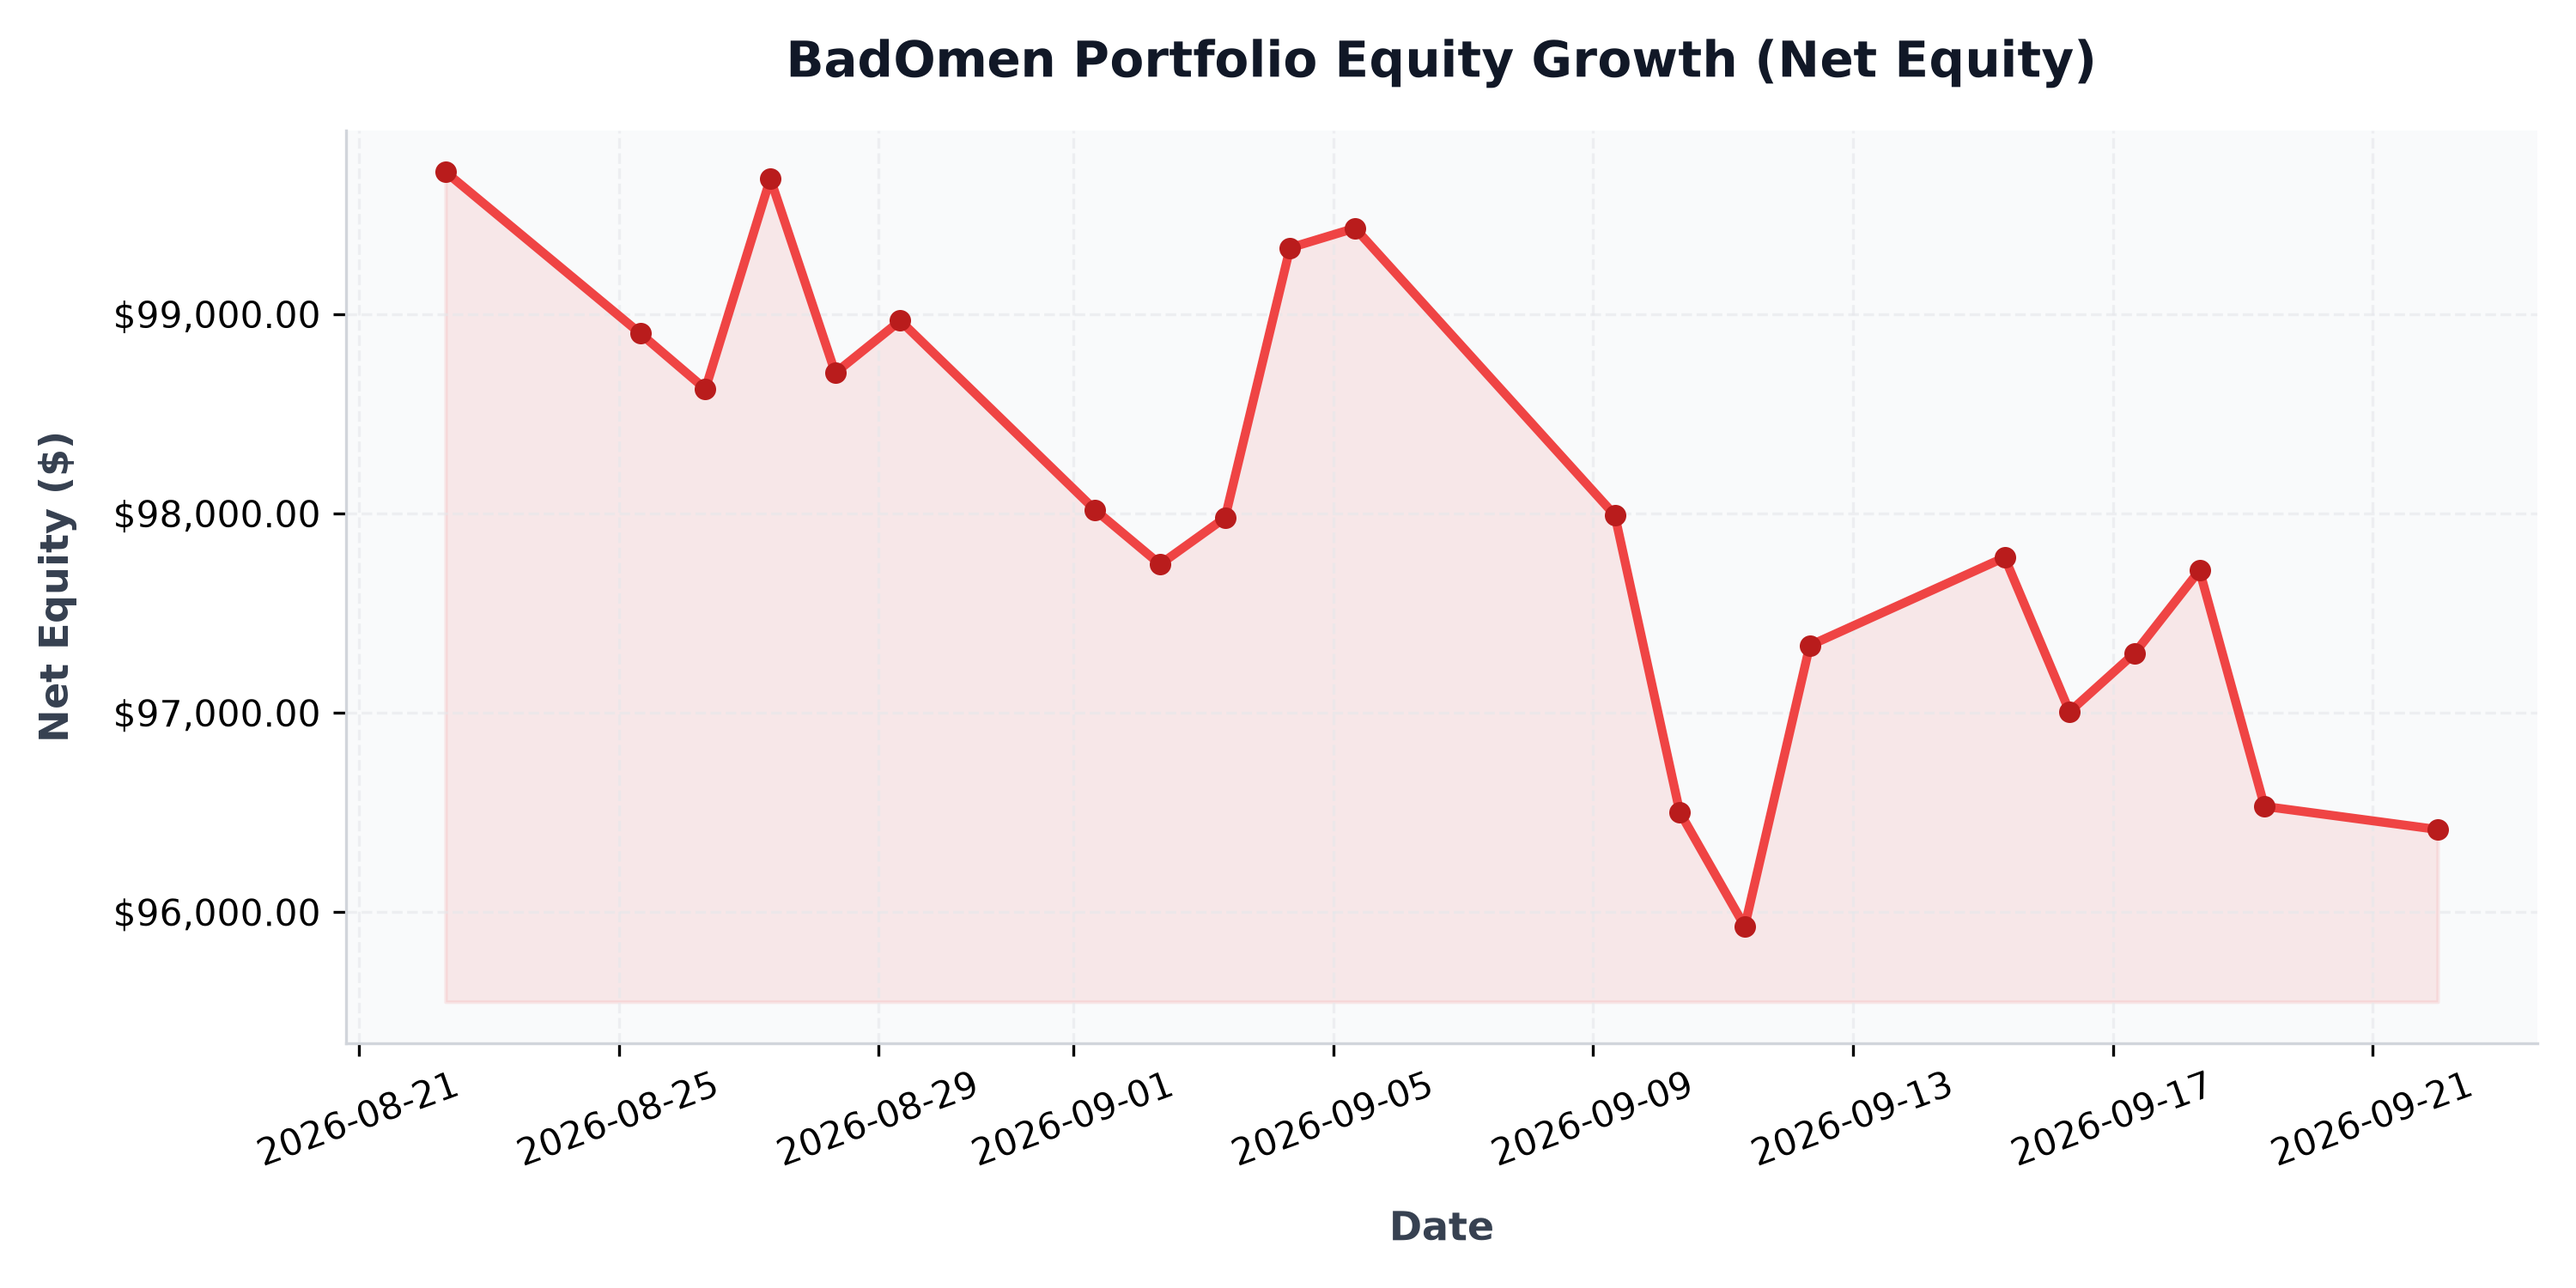
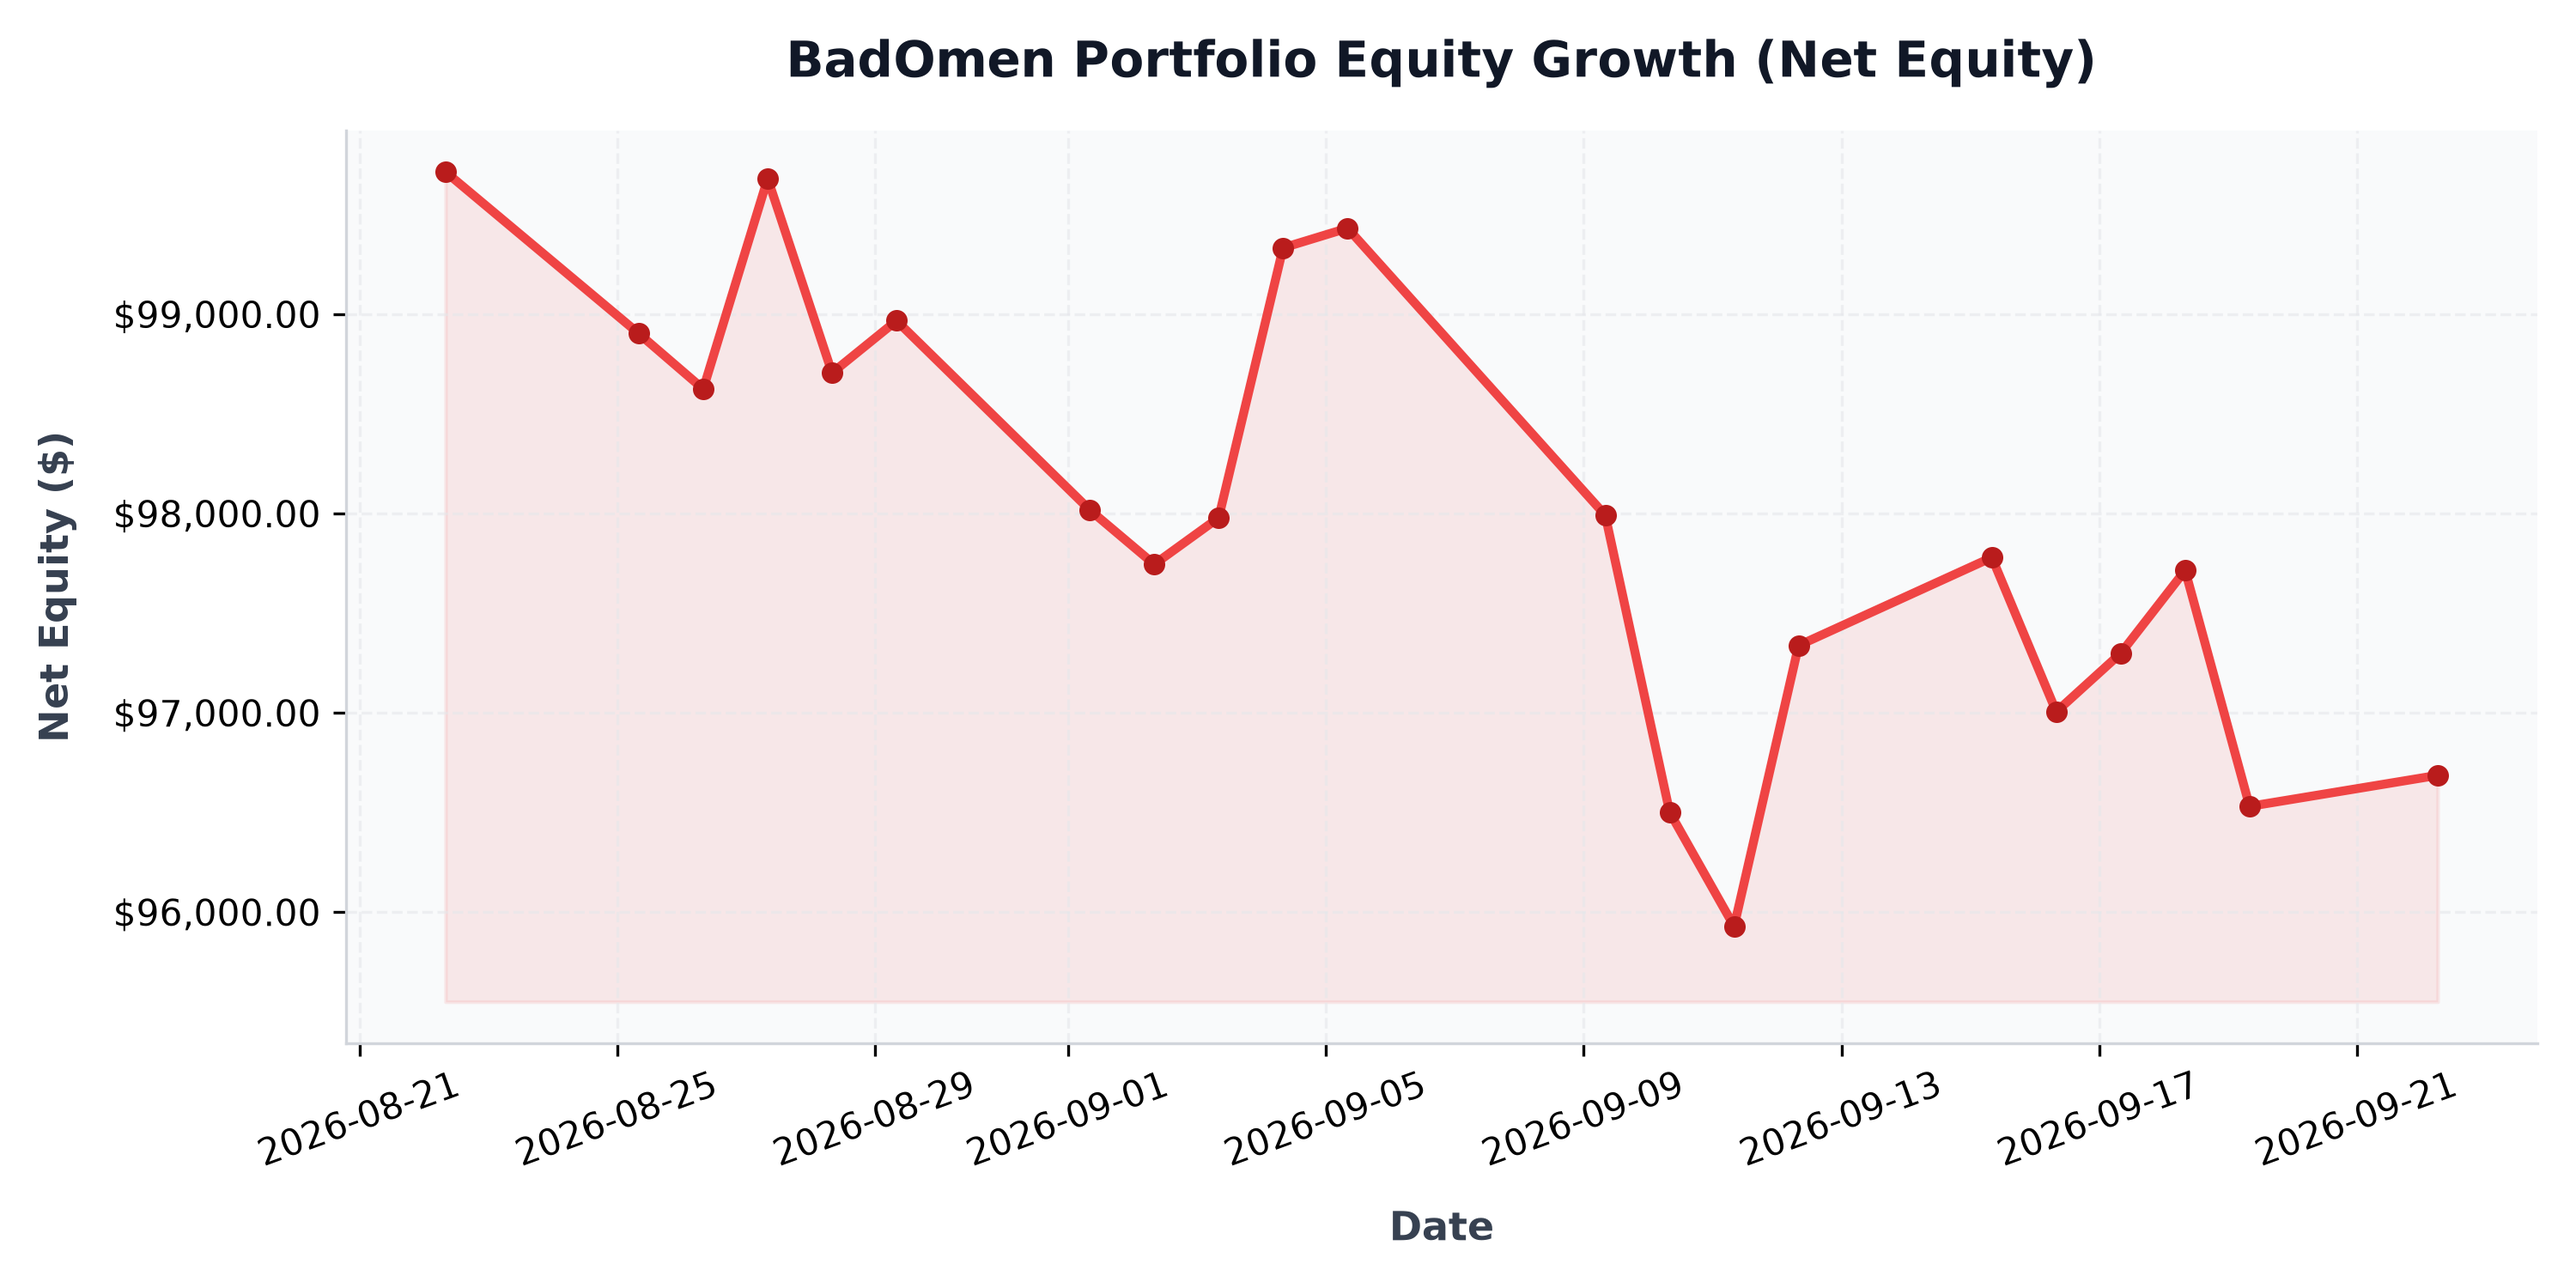
auto: daily portfolio status update - 2026-09-22 06:05:13

diff --git a/src/content/posts/portfolio-performance.md b/src/content/posts/portfolio-performance.md
@@ -1,6 +1,6 @@
 ---
 title: "BadOmen Algorithmic Portfolio Performance & PnL Report"
-pubDatetime: 2026-09-22T00:00:17.219851+08:00
+pubDatetime: 2026-09-22T06:05:13.712959+08:00
 description: "Live performance metrics, active holdings, and historic equity curve for the BadOmen automated paper trading portfolio."
 featured: true
 draft: false
@@ -16,11 +16,11 @@ Welcome to the live performance dashboard for **BadOmen**, our automated algorit
 ## 📊 Portfolio Summary
 | Performance Metric | Value | description |
 | :--- | :--- | :--- |
-| **Net Portfolio Equity** | **$96,414.77** | Total current liquidation value of cash and stock holdings |
-| **Total Unrealized P&L** | 🔴 **$-4,466.58** (-4.43%) | Total return of current open holdings |
+| **Net Portfolio Equity** | **$96,686.83** | Total current liquidation value of cash and stock holdings |
+| **Total Unrealized P&L** | 🔴 **$-4,191.60** (-4.16%) | Total return of current open holdings |
 | **Cash Balance** | $23,482.80 | Idle reserve currency available for limit orders |
-| **Buying Power** | $298,140.70 | Margin-backed buying power for entry allocations |
-| **Report Updated** | `2026-09-22 00:00:17 (SGT)` | Timestamp of daily execution and sync run |
+| **Buying Power** | $298,902.50 | Margin-backed buying power for entry allocations |
+| **Report Updated** | `2026-09-22 06:05:13 (SGT)` | Timestamp of daily execution and sync run |
 
 ## 📈 Net Equity Growth Curve
 The chart below illustrates the historical performance of the account starting from our baseline capital funding of $100,000.00.
@@ -35,36 +35,36 @@ The chart below illustrates the exposure of our currently held active positions 
 ## 💼 Current Position Holdings
 | Ticker | Industry | Shares Owned | Average Entry Cost | Current Price | Unrealized P&L | Return (%) |
 | :--- | :--- | :--- | :--- | :--- | :--- | :--- |
-| **AN** | Auto & Truck Dealerships | 5 | $188.51 | $169.35 | 🔴 $-95.77 | -10.16% |
-| **AVGO** | Semiconductors | 1 | $385.71 | $358.00 | 🔴 $-27.71 | -7.18% |
-| **BIRK** | Footwear & Accessories | 407 | $37.32 | $31.18 | 🔴 $-2,500.09 | -16.46% |
-| **BLBD** | Farm & Heavy Construction Machinery | 231 | $65.52 | $60.20 | 🔴 $-1,226.83 | -8.11% |
-| **BVN** | Other Precious Metals & Mining | 32 | $31.88 | $33.30 | 🟢 +$45.60 | +4.47% |
-| **CELH** | Beverages - Non-Alcoholic | 33 | $29.71 | $28.43 | 🔴 $-42.16 | -4.30% |
-| **CPRI** | Luxury Goods | 1042 | $14.55 | $13.88 | 🔴 $-705.23 | -4.65% |
-| **DUOL** | Software - Application | 14 | $131.04 | $151.11 | 🟢 +$280.92 | +15.31% |
-| **FIS** | Information Technology Services | 23 | $41.79 | $35.59 | 🔴 $-142.49 | -14.82% |
-| **GDDY** | Software - Infrastructure | 6 | $76.21 | $103.14 | 🟢 +$161.55 | +35.33% |
-| **GDS** | Information Technology Services | 30 | $32.77 | $34.29 | 🟢 +$45.60 | +4.64% |
-| **GGAL** | Banks - Regional | 17 | $56.04 | $41.45 | 🔴 $-247.94 | -26.02% |
-| **GOOGL** | Internet Content & Information | 3 | $319.44 | $356.81 | 🟢 +$112.11 | +11.70% |
-| **GPI** | Auto & Truck Dealerships | 3 | $316.15 | $252.40 | 🔴 $-191.25 | -20.16% |
-| **HUBS** | Software - Application | 8 | $221.18 | $213.51 | 🔴 $-61.37 | -3.47% |
-| **ITRI** | Scientific & Technical Instruments | 12 | $81.80 | $92.17 | 🟢 +$124.50 | +12.68% |
-| **KBR** | Engineering & Construction | 27 | $36.23 | $35.43 | 🔴 $-21.68 | -2.22% |
-| **META** | Internet Content & Information | 1 | $568.17 | $721.28 | 🟢 +$153.11 | +26.95% |
-| **NESR** | Oil & Gas Equipment & Services | 34 | $28.74 | $32.34 | 🟢 +$122.40 | +12.53% |
-| **NU** | Banks - Regional | 57 | $11.60 | $13.88 | 🟢 +$130.05 | +19.67% |
-| **ON** | Semiconductors | 10 | $90.45 | $70.53 | 🔴 $-199.25 | -22.03% |
-| **ORCL** | Software - Infrastructure | 5 | $181.95 | $148.62 | 🔴 $-166.65 | -18.32% |
-| **PATH** | Software - Infrastructure | 38 | $10.25 | $13.54 | 🟢 +$125.21 | +32.15% |
-| **PYPL** | Credit Services | 17 | $56.05 | $52.62 | 🔴 $-58.31 | -6.12% |
-| **QCOM** | Semiconductors | 15 | $193.68 | $190.57 | 🔴 $-46.72 | -1.61% |
-| **SMCI** | Computer Hardware | 22 | $29.25 | $41.11 | 🟢 +$260.92 | +40.55% |
-| **SRE** | Utilities - Diversified | 57 | $84.75 | $81.35 | 🔴 $-193.94 | -4.01% |
-| **T** | Telecom Services | 47 | $20.85 | $25.79 | 🟢 +$231.94 | +23.67% |
-| **WEN** | Restaurants | 257 | $8.02 | $6.78 | 🔴 $-320.92 | -15.56% |
-| **ZG** | Internet Content & Information | 31 | $31.35 | $30.96 | 🔴 $-12.19 | -1.25% |
+| **AN** | Auto & Truck Dealerships | 5 | $188.51 | $168.76 | 🔴 $-98.74 | -10.48% |
+| **AVGO** | Semiconductors | 1 | $385.71 | $363.25 | 🔴 $-22.46 | -5.82% |
+| **BIRK** | Footwear & Accessories | 407 | $37.32 | $31.34 | 🔴 $-2,432.93 | -16.02% |
+| **BLBD** | Farm & Heavy Construction Machinery | 231 | $65.52 | $58.64 | 🔴 $-1,588.35 | -10.50% |
+| **BVN** | Other Precious Metals & Mining | 32 | $31.88 | $33.59 | 🟢 +$54.88 | +5.38% |
+| **CELH** | Beverages - Non-Alcoholic | 33 | $29.71 | $28.10 | 🔴 $-53.22 | -5.43% |
+| **CPRI** | Luxury Goods | 1042 | $14.55 | $14.35 | 🔴 $-210.28 | -1.39% |
+| **DUOL** | Software - Application | 14 | $131.04 | $149.41 | 🟢 +$257.12 | +14.02% |
+| **FIS** | Information Technology Services | 23 | $41.79 | $35.33 | 🔴 $-148.58 | -15.46% |
+| **GDDY** | Software - Infrastructure | 6 | $76.21 | $104.90 | 🟢 +$172.14 | +37.65% |
+| **GDS** | Information Technology Services | 30 | $32.77 | $34.25 | 🟢 +$44.40 | +4.52% |
+| **GGAL** | Banks - Regional | 17 | $56.04 | $41.76 | 🔴 $-242.75 | -25.48% |
+| **GOOGL** | Internet Content & Information | 3 | $319.44 | $355.98 | 🟢 +$109.62 | +11.44% |
+| **GPI** | Auto & Truck Dealerships | 3 | $316.15 | $253.00 | 🔴 $-189.45 | -19.98% |
+| **HUBS** | Software - Application | 8 | $221.18 | $214.16 | 🔴 $-56.19 | -3.18% |
+| **ITRI** | Scientific & Technical Instruments | 12 | $81.80 | $92.43 | 🟢 +$127.56 | +13.00% |
+| **KBR** | Engineering & Construction | 27 | $36.23 | $35.66 | 🔴 $-15.47 | -1.58% |
+| **META** | Internet Content & Information | 1 | $568.17 | $740.39 | 🟢 +$172.22 | +30.31% |
+| **NESR** | Oil & Gas Equipment & Services | 34 | $28.74 | $32.90 | 🟢 +$141.44 | +14.47% |
+| **NU** | Banks - Regional | 57 | $11.60 | $14.03 | 🟢 +$138.59 | +20.96% |
+| **ON** | Semiconductors | 10 | $90.45 | $71.99 | 🔴 $-184.65 | -20.41% |
+| **ORCL** | Software - Infrastructure | 5 | $181.95 | $148.65 | 🔴 $-166.49 | -18.30% |
+| **PATH** | Software - Infrastructure | 38 | $10.25 | $13.60 | 🟢 +$127.30 | +32.68% |
+| **PYPL** | Credit Services | 17 | $56.05 | $52.60 | 🔴 $-58.65 | -6.16% |
+| **QCOM** | Semiconductors | 15 | $193.68 | $194.46 | 🟢 +$11.63 | +0.40% |
+| **SMCI** | Computer Hardware | 22 | $29.25 | $41.34 | 🟢 +$266.00 | +41.34% |
+| **SRE** | Utilities - Diversified | 57 | $84.75 | $81.20 | 🔴 $-202.49 | -4.19% |
+| **T** | Telecom Services | 47 | $20.85 | $25.48 | 🟢 +$217.61 | +22.21% |
+| **WEN** | Restaurants | 257 | $8.02 | $6.72 | 🔴 $-335.06 | -16.25% |
+| **ZG** | Internet Content & Information | 31 | $31.35 | $30.50 | 🔴 $-26.36 | -2.71% |
 
 ## 🔴 Recent Realized Trades
 | Ticker | Shares Sold | Entry Price | Exit Price | Strategy Trigger | Realized Return | Exit Date |
